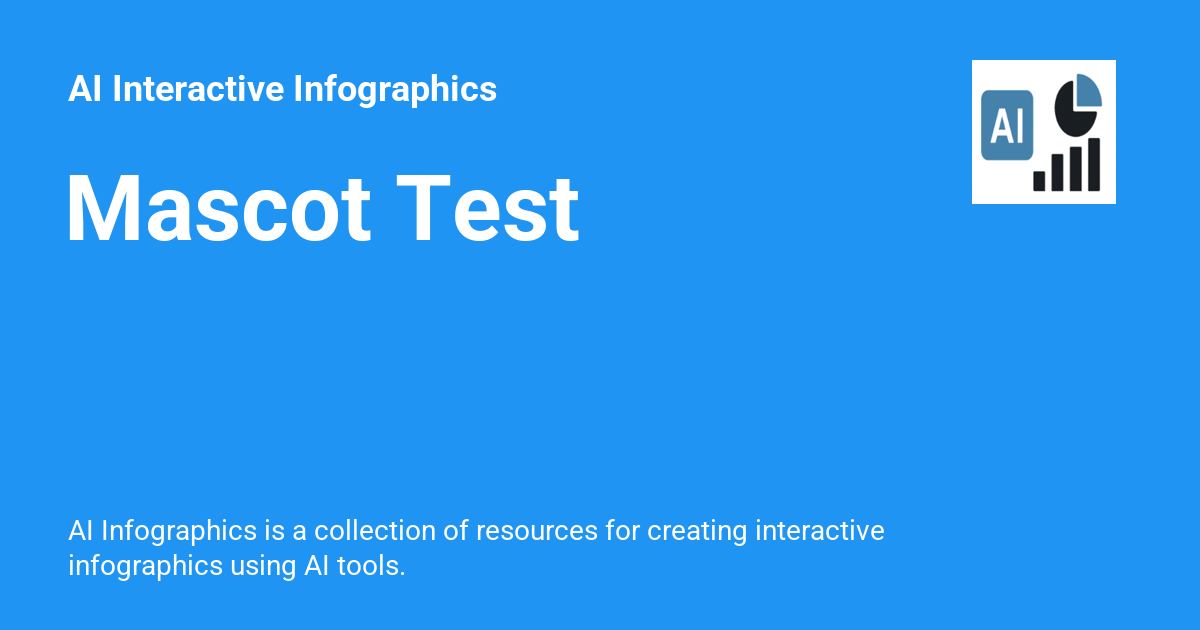
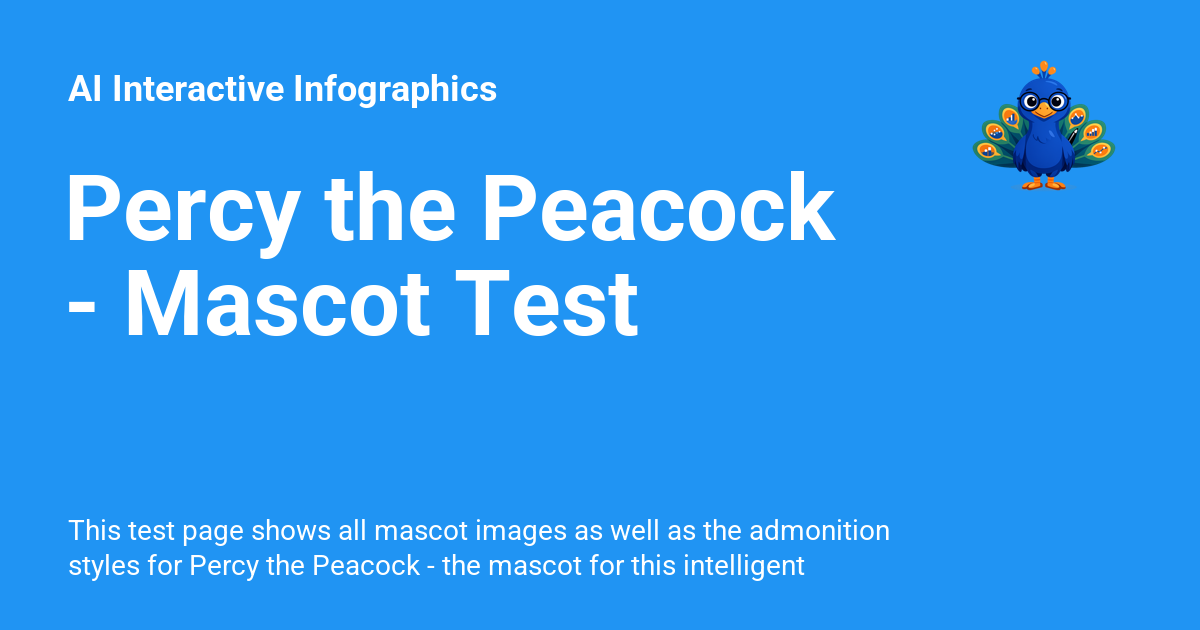
Deployed f7d3c53 with MkDocs version: 1.6.1

diff --git a/learning-graph/mascot-test/index.html b/learning-graph/mascot-test/index.html
@@ -6,7 +6,7 @@
       <meta charset="utf-8">
       <meta name="viewport" content="width=device-width,initial-scale=1">
       
-        <meta name="description" content="AI Infographics is a collection of resources for creating interactive infographics using AI tools.">
+        <meta name="description" content="This test page shows all mascot images as well as the admonition styles for Percy the Peacock - the mascot for this intelligent textbook.">
       
       
         <meta name="author" content="Dan McCreary">
@@ -26,7 +26,7 @@
     
     
       
-        <title>Mascot Test - AI Interactive Infographics</title>
+        <title>Percy the Peacock - Mascot Test - AI Interactive Infographics</title>
       
     
     
@@ -65,9 +65,9 @@
       
         <meta  property="og:type"  content="website" >
       
-        <meta  property="og:title"  content="Mascot Test - AI Interactive Infographics" >
+        <meta  property="og:title"  content="Percy the Peacock - Mascot Test - AI Interactive Infographics" >
       
-        <meta  property="og:description"  content="AI Infographics is a collection of resources for creating interactive infographics using AI tools." >
+        <meta  property="og:description"  content="This test page shows all mascot images as well as the admonition styles for Percy the Peacock - the mascot for this intelligent textbook." >
       
         <meta  property="og:image"  content="https://dmccreary.github.io/infographics/assets/images/social/learning-graph/mascot-test.png" >
       
@@ -81,9 +81,9 @@
       
         <meta  name="twitter:card"  content="summary_large_image" >
       
-        <meta  name="twitter:title"  content="Mascot Test - AI Interactive Infographics" >
+        <meta  name="twitter:title"  content="Percy the Peacock - Mascot Test - AI Interactive Infographics" >
       
-        <meta  name="twitter:description"  content="AI Infographics is a collection of resources for creating interactive infographics using AI tools." >
+        <meta  name="twitter:description"  content="This test page shows all mascot images as well as the admonition styles for Percy the Peacock - the mascot for this intelligent textbook." >
       
         <meta  name="twitter:image"  content="https://dmccreary.github.io/infographics/assets/images/social/learning-graph/mascot-test.png" >
       
@@ -141,7 +141,7 @@
         <div class="md-header__topic" data-md-component="header-topic">
           <span class="md-ellipsis">
             
-              Mascot Test
+              Percy the Peacock - Mascot Test
             
           </span>
         </div>
